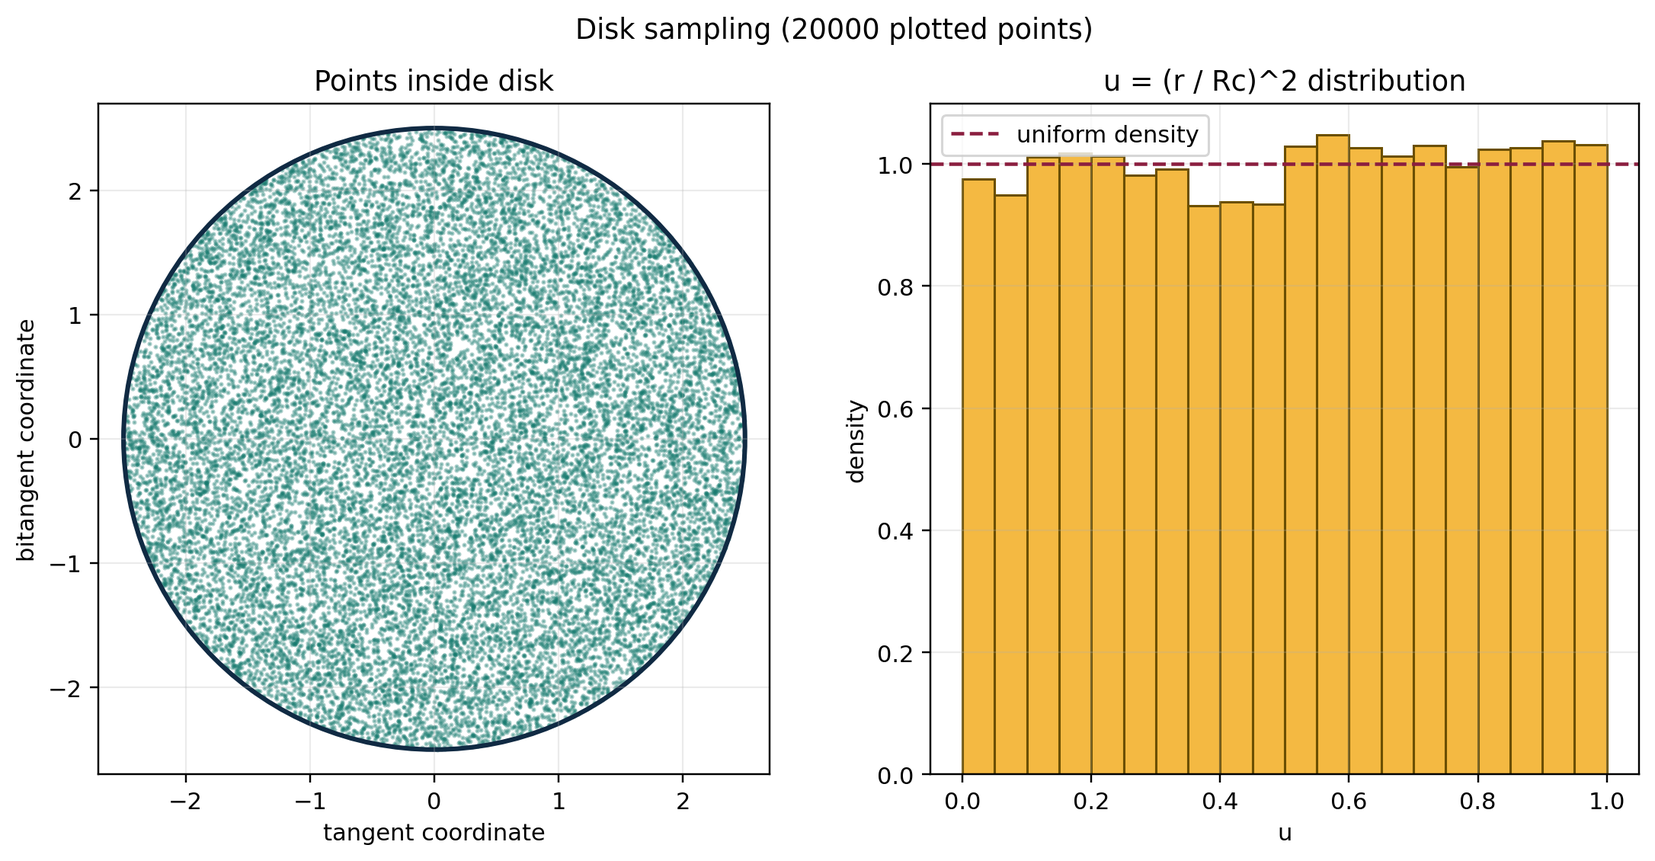
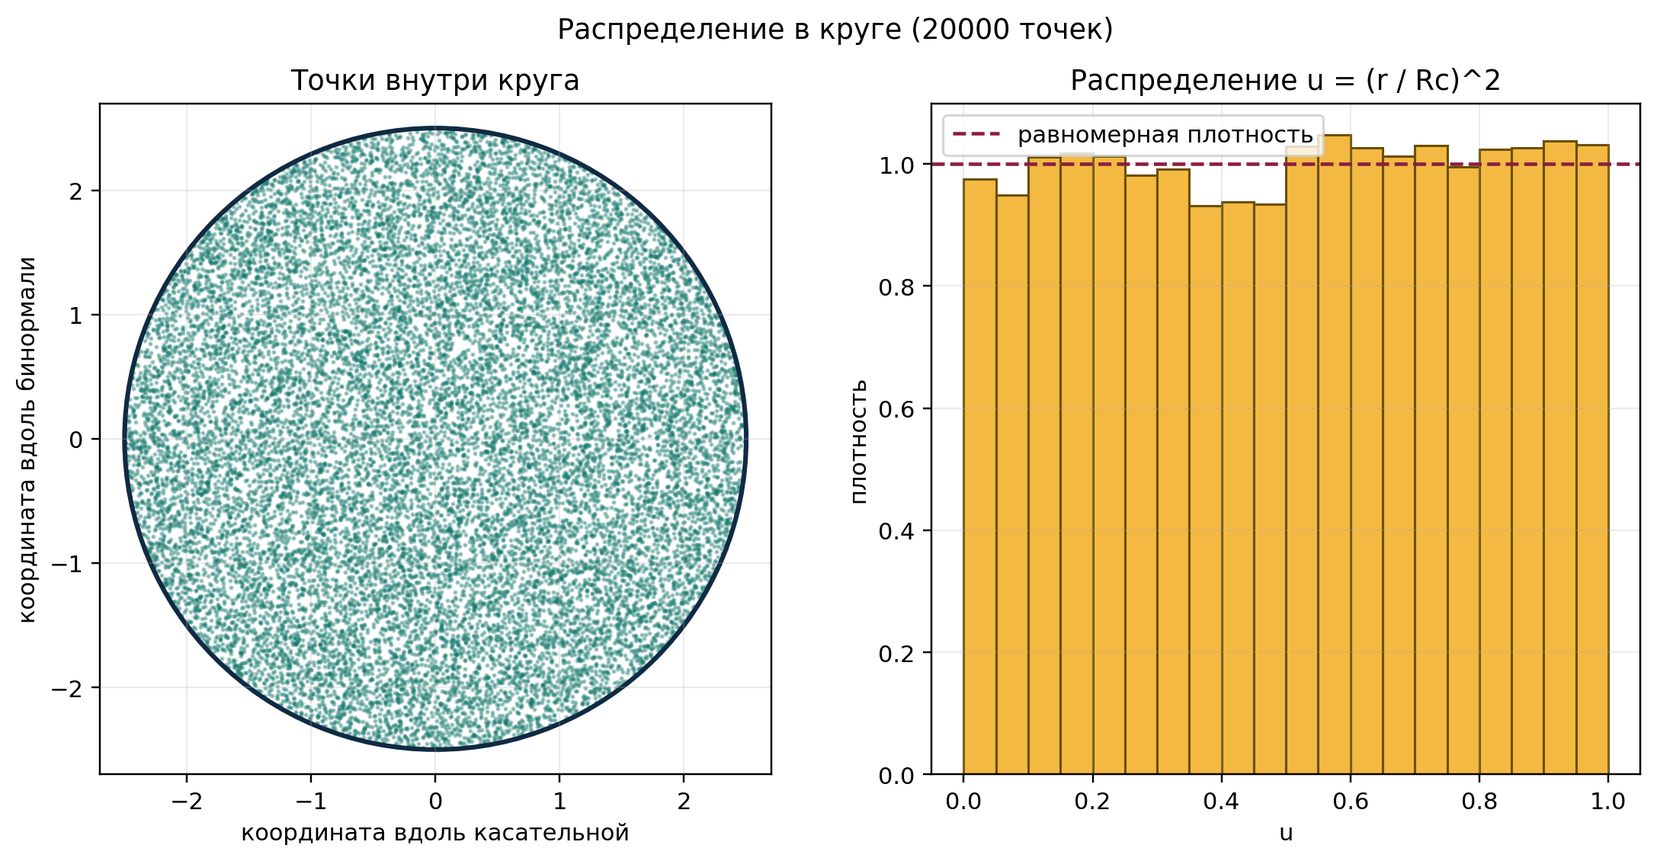
Translate lab 03 output to Russian

diff --git a/03/main.py b/03/main.py
@@ -51,7 +51,7 @@ class Vec3:
     def normalize(self) -> "Vec3":
         length = self.length()
         if length < EPSILON:
-            raise ValueError("Zero-length vector cannot be normalized.")
+            raise ValueError("Нельзя нормализовать нулевой вектор.")
         return self * (1.0 / length)
 
 
@@ -106,7 +106,7 @@ def build_count_table(bin_name: str, counts: list[int], expected: float) -> str:
             ]
         )
     return format_table(
-        [bin_name, "count", "expected", "diff", "diff %"],
+        [bin_name, "число", "ожид.", "разн.", "разн. %"],
         rows,
     )
 
@@ -186,7 +186,7 @@ def phi_bin_index(phi: float, bins: int) -> int:
 
 
 def build_metrics_table(rows: list[tuple[str, str]]) -> str:
-    return format_table(["metric", "value"], [[name, value] for name, value in rows], alignments="lr")
+    return format_table(["метрика", "значение"], [[name, value] for name, value in rows], alignments="lr")
 
 
 def triangle_parameters() -> tuple[Vec3, Vec3, Vec3]:
@@ -278,22 +278,22 @@ def create_triangle_plot() -> Path:
     for index, vertex in enumerate(vertices_uv, start=1):
         scatter_ax.scatter([vertex[0]], [vertex[1]], s=45, color="#d64545", zorder=3)
         scatter_ax.text(vertex[0], vertex[1], f"  V{index}", fontsize=10, va="bottom")
-    scatter_ax.set_title("Points inside triangle")
-    scatter_ax.set_xlabel("local u")
-    scatter_ax.set_ylabel("local v")
+    scatter_ax.set_title("Точки внутри треугольника")
+    scatter_ax.set_xlabel("локальная координата u")
+    scatter_ax.set_ylabel("локальная координата v")
     scatter_ax.set_aspect("equal", adjustable="box")
     style_axes(scatter_ax)
 
     expected = PLOT_SAMPLE_COUNT / 4.0
-    labels = ["R1", "R2", "R3", "R4"]
+    labels = ["О1", "О2", "О3", "О4"]
     bar_ax.bar(labels, region_counts, color="#4f9d69")
-    bar_ax.axhline(expected, color="#8b1e3f", linestyle="--", linewidth=1.5, label=f"expected = {expected:.0f}")
-    bar_ax.set_title("Equal-area subtriangles")
-    bar_ax.set_ylabel("count")
+    bar_ax.axhline(expected, color="#8b1e3f", linestyle="--", linewidth=1.5, label=f"ожид. = {expected:.0f}")
+    bar_ax.set_title("Равновеликие подтреугольники")
+    bar_ax.set_ylabel("число точек")
     bar_ax.legend()
     style_axes(bar_ax)
 
-    fig.suptitle(f"Triangle sampling ({PLOT_SAMPLE_COUNT} plotted points)")
+    fig.suptitle(f"Распределение в треугольнике ({PLOT_SAMPLE_COUNT} точек)")
     return save_figure(fig, "triangle_distribution.png")
 
 
@@ -320,23 +320,23 @@ def create_disk_plot() -> Path:
     scatter_ax.scatter(xs, ys, s=1, alpha=0.35, color="#157a6e", rasterized=True)
     circle = plt.Circle((0.0, 0.0), radius, fill=False, linewidth=2.0, color="#102a43")
     scatter_ax.add_patch(circle)
-    scatter_ax.set_title("Points inside disk")
-    scatter_ax.set_xlabel("tangent coordinate")
-    scatter_ax.set_ylabel("bitangent coordinate")
+    scatter_ax.set_title("Точки внутри круга")
+    scatter_ax.set_xlabel("координата вдоль касательной")
+    scatter_ax.set_ylabel("координата вдоль бинормали")
     scatter_ax.set_aspect("equal", adjustable="box")
     scatter_ax.set_xlim(-radius * 1.08, radius * 1.08)
     scatter_ax.set_ylim(-radius * 1.08, radius * 1.08)
     style_axes(scatter_ax)
 
     hist_ax.hist(area_values, bins=20, range=(0.0, 1.0), density=True, color="#f4b942", edgecolor="#6b4f00")
-    hist_ax.axhline(1.0, color="#8b1e3f", linestyle="--", linewidth=1.5, label="uniform density")
-    hist_ax.set_title("u = (r / Rc)^2 distribution")
+    hist_ax.axhline(1.0, color="#8b1e3f", linestyle="--", linewidth=1.5, label="равномерная плотность")
+    hist_ax.set_title("Распределение u = (r / Rc)^2")
     hist_ax.set_xlabel("u")
-    hist_ax.set_ylabel("density")
+    hist_ax.set_ylabel("плотность")
     hist_ax.legend()
     style_axes(hist_ax)
 
-    fig.suptitle(f"Disk sampling ({PLOT_SAMPLE_COUNT} plotted points)")
+    fig.suptitle(f"Распределение в круге ({PLOT_SAMPLE_COUNT} точек)")
     return save_figure(fig, "disk_distribution.png")
 
 
@@ -364,17 +364,17 @@ def create_uniform_sphere_plot() -> Path:
         alpha=0.45,
         rasterized=True,
     )
-    configure_3d_axes(scatter_ax, "Uniform directions on sphere")
+    configure_3d_axes(scatter_ax, "Равномерные направления на сфере")
 
     hist_ax.hist(z_values, bins=24, range=(-1.0, 1.0), density=True, color="#3b82b0", edgecolor="#16324f")
-    hist_ax.axhline(0.5, color="#8b1e3f", linestyle="--", linewidth=1.5, label="theory: p(z)=1/2")
-    hist_ax.set_title("Distribution of z = cos(theta)")
+    hist_ax.axhline(0.5, color="#8b1e3f", linestyle="--", linewidth=1.5, label="теория: p(z)=1/2")
+    hist_ax.set_title("Распределение z = cos(theta)")
     hist_ax.set_xlabel("z")
-    hist_ax.set_ylabel("density")
+    hist_ax.set_ylabel("плотность")
     hist_ax.legend()
     style_axes(hist_ax)
 
-    fig.suptitle(f"Uniform sphere sampling ({PLOT_SAMPLE_COUNT} plotted directions)")
+    fig.suptitle(f"Равномерное распределение на сфере ({PLOT_SAMPLE_COUNT} направлений)")
     return save_figure(fig, "uniform_sphere_distribution.png")
 
 
@@ -405,19 +405,19 @@ def create_cosine_plot() -> Path:
         rasterized=True,
     )
     scatter_ax.quiver(0.0, 0.0, 0.0, normal.x, normal.y, normal.z, length=1.1, color="#111111", linewidth=2.0)
-    configure_3d_axes(scatter_ax, "Cosine-weighted hemisphere")
+    configure_3d_axes(scatter_ax, "Косинусное распределение на полусфере")
     scatter_ax.set_zlim(0.0, 1.05)
 
     hist_ax.hist(cosines, bins=24, range=(0.0, 1.0), density=True, color="#f08c2e", edgecolor="#6b3a00")
     xs = [index / 200.0 for index in range(201)]
-    hist_ax.plot(xs, [2.0 * x for x in xs], color="#8b1e3f", linewidth=2.0, label="theory: p(mu)=2mu")
-    hist_ax.set_title("Distribution of mu = cos(theta)")
+    hist_ax.plot(xs, [2.0 * x for x in xs], color="#8b1e3f", linewidth=2.0, label="теория: p(mu)=2mu")
+    hist_ax.set_title("Распределение mu = cos(theta)")
     hist_ax.set_xlabel("mu")
-    hist_ax.set_ylabel("density")
+    hist_ax.set_ylabel("плотность")
     hist_ax.legend()
     style_axes(hist_ax)
 
-    fig.suptitle(f"Cosine hemisphere sampling ({PLOT_SAMPLE_COUNT} plotted directions)")
+    fig.suptitle(f"Косинусное распределение на полусфере ({PLOT_SAMPLE_COUNT} направлений)")
     return save_figure(fig, "cosine_distribution.png")
 
 
@@ -467,28 +467,28 @@ def analyze_triangle() -> str:
     expected_subtriangle = SAMPLE_COUNT / 4.0
 
     lines = [
-        "1. Uniform points inside triangle",
+        "1. Равномерное распределение точек внутри треугольника",
         f"V1 = {format_vec(v1)}, V2 = {format_vec(v2)}, V3 = {format_vec(v3)}",
-        "sampling map: u1,u2 ~ U[0,1], s = sqrt(u1),",
+        "формирование: u1,u2 ~ U[0,1], s = sqrt(u1),",
         "b1 = 1 - s, b2 = s(1-u2), b3 = s*u2, P = b1*V1 + b2*V2 + b3*V3",
-        "proof idea: b1,b2,b3 >= 0 and b1+b2+b3 = 1 => every point lies inside the triangle; the Jacobian is constant over area.",
+        "идея доказательства: b1,b2,b3 >= 0 и b1+b2+b3 = 1, значит все точки лежат внутри треугольника; якобиан преобразования постоянен по площади.",
         build_metrics_table(
             [
-                ("generated points", str(SAMPLE_COUNT)),
-                ("invalid points", str(invalid_count)),
-                ("inside check passed", "yes" if invalid_count == 0 else "no"),
+                ("число сгенерированных точек", str(SAMPLE_COUNT)),
+                ("число неверных точек", str(invalid_count)),
+                ("проверка принадлежности", "пройдена" if invalid_count == 0 else "не пройдена"),
                 ("max |b1+b2+b3-1|", f"{max_bary_sum_error:.12f}"),
-                ("mean barycentric", f"({sum_b1 / SAMPLE_COUNT:.6f}, {sum_b2 / SAMPLE_COUNT:.6f}, {sum_b3 / SAMPLE_COUNT:.6f})"),
-                ("theoretical centroid", format_vec(centroid)),
-                ("sample centroid", format_vec(sample_centroid)),
-                ("centroid error", f"{centroid_error:.6f}"),
-                ("subtriangle chi^2", f"{chi_square_stat(region_counts, expected_subtriangle):.6f}"),
-                ("subtriangle max diff %", f"{max_relative_deviation_percent(region_counts, expected_subtriangle):.3f}%"),
-                ("subtriangle rms diff %", f"{rms_relative_deviation_percent(region_counts, expected_subtriangle):.3f}%"),
+                ("средние барицентрические", f"({sum_b1 / SAMPLE_COUNT:.6f}, {sum_b2 / SAMPLE_COUNT:.6f}, {sum_b3 / SAMPLE_COUNT:.6f})"),
+                ("теоретический центр масс", format_vec(centroid)),
+                ("выборочный центр масс", format_vec(sample_centroid)),
+                ("ошибка центра масс", f"{centroid_error:.6f}"),
+                ("chi^2 по подтреугольникам", f"{chi_square_stat(region_counts, expected_subtriangle):.6f}"),
+                ("макс. отклонение", f"{max_relative_deviation_percent(region_counts, expected_subtriangle):.3f}%"),
+                ("с.к.о. отклонение", f"{rms_relative_deviation_percent(region_counts, expected_subtriangle):.3f}%"),
             ]
         ),
-        "Equal-area subtriangles: expected count = N / 4",
-        build_count_table("subtriangle", region_counts, expected_subtriangle),
+        "Равновеликие подтреугольники: ожидаемое число = N / 4",
+        build_count_table("подтр.", region_counts, expected_subtriangle),
         "",
     ]
     return "\n".join(lines)
@@ -533,31 +533,31 @@ def analyze_disk() -> str:
     expected_sector = SAMPLE_COUNT / len(sector_counts)
 
     lines = [
-        "2. Uniform points inside disk",
+        "2. Равномерное распределение точек внутри круга",
         f"C = {format_vec(center)}, N = {format_vec(n)}, Rc = {radius:.6f}",
-        "sampling map: u1,u2 ~ U[0,1], r = Rc*sqrt(u1), phi = 2*pi*u2,",
-        "P = C + T*(r*cos(phi)) + B*(r*sin(phi)) in an orthonormal basis (T,B,N)",
-        "proof idea: u1 = r^2 / Rc^2 is uniform, so equal-area rings must contain the same number of samples.",
+        "формирование: u1,u2 ~ U[0,1], r = Rc*sqrt(u1), phi = 2*pi*u2,",
+        "P = C + T*(r*cos(phi)) + B*(r*sin(phi)) в ортонормированном базисе (T,B,N)",
+        "идея доказательства: u1 = r^2 / Rc^2 распределена равномерно, поэтому равновеликие кольца должны содержать одинаковое число точек.",
         build_metrics_table(
             [
-                ("generated points", str(SAMPLE_COUNT)),
-                ("invalid points", str(invalid_count)),
-                ("inside check passed", "yes" if invalid_count == 0 else "no"),
-                ("max plane distance", f"{max_plane_distance:.12f}"),
-                ("max radius / Rc", f"{max_radius_ratio:.6f}"),
-                ("theoretical centroid", format_vec(center)),
-                ("sample centroid", format_vec(sample_centroid)),
-                ("centroid error", f"{centroid_error:.6f}"),
-                ("ring chi^2", f"{chi_square_stat(ring_counts, expected_ring):.6f}"),
-                ("ring max diff %", f"{max_relative_deviation_percent(ring_counts, expected_ring):.3f}%"),
-                ("sector chi^2", f"{chi_square_stat(sector_counts, expected_sector):.6f}"),
-                ("sector max diff %", f"{max_relative_deviation_percent(sector_counts, expected_sector):.3f}%"),
+                ("число сгенерированных точек", str(SAMPLE_COUNT)),
+                ("число неверных точек", str(invalid_count)),
+                ("проверка принадлежности", "пройдена" if invalid_count == 0 else "не пройдена"),
+                ("макс. расстояние до плоскости", f"{max_plane_distance:.12f}"),
+                ("макс. r / Rc", f"{max_radius_ratio:.6f}"),
+                ("теоретический центр масс", format_vec(center)),
+                ("выборочный центр масс", format_vec(sample_centroid)),
+                ("ошибка центра масс", f"{centroid_error:.6f}"),
+                ("chi^2 по кольцам", f"{chi_square_stat(ring_counts, expected_ring):.6f}"),
+                ("макс. отклонение по кольцам", f"{max_relative_deviation_percent(ring_counts, expected_ring):.3f}%"),
+                ("chi^2 по секторам", f"{chi_square_stat(sector_counts, expected_sector):.6f}"),
+                ("макс. отклонение по секторам", f"{max_relative_deviation_percent(sector_counts, expected_sector):.3f}%"),
             ]
         ),
-        "Equal-area rings: expected count = N / 5",
-        build_count_table("ring", ring_counts, expected_ring),
-        "Azimuth sectors: expected count = N / 8",
-        build_count_table("sector", sector_counts, expected_sector),
+        "Равновеликие кольца: ожидаемое число = N / 5",
+        build_count_table("кольцо", ring_counts, expected_ring),
+        "Азимутальные секторы: ожидаемое число = N / 8",
+        build_count_table("сектор", sector_counts, expected_sector),
         "",
     ]
     return "\n".join(lines)
@@ -590,28 +590,28 @@ def analyze_uniform_sphere() -> str:
     expected_sector = SAMPLE_COUNT / len(sector_counts)
 
     lines = [
-        "3. Uniform directions on unit sphere",
-        "sampling map: u1,u2 ~ U[0,1], z = 1 - 2*u1, phi = 2*pi*u2,",
+        "3. Равномерное распределение направлений на единичной сфере",
+        "формирование: u1,u2 ~ U[0,1], z = 1 - 2*u1, phi = 2*pi*u2,",
         "w = (sqrt(1-z^2)*cos(phi), sqrt(1-z^2)*sin(phi), z)",
-        "proof idea: z = cos(theta) is uniform on [-1,1] and phi is uniform on [0,2*pi), which gives constant density over solid angle.",
+        "идея доказательства: z = cos(theta) равномерна на [-1,1], а phi равномерна на [0,2*pi), что даёт постоянную плотность по телесному углу.",
         build_metrics_table(
             [
-                ("generated directions", str(SAMPLE_COUNT)),
-                ("invalid directions", str(invalid_count)),
-                ("all normalized", "yes" if invalid_count == 0 else "no"),
+                ("число сгенерированных направлений", str(SAMPLE_COUNT)),
+                ("число неверных направлений", str(invalid_count)),
+                ("проверка нормировки", "пройдена" if invalid_count == 0 else "не пройдена"),
                 ("max ||w|-1|", f"{max_norm_error:.12f}"),
-                ("sample mean direction", format_vec(mean_dir)),
-                ("|mean direction|", f"{mean_dir.length():.6f}"),
-                ("z-bin chi^2", f"{chi_square_stat(z_counts, expected_z):.6f}"),
-                ("z-bin max diff %", f"{max_relative_deviation_percent(z_counts, expected_z):.3f}%"),
-                ("sector chi^2", f"{chi_square_stat(sector_counts, expected_sector):.6f}"),
-                ("sector max diff %", f"{max_relative_deviation_percent(sector_counts, expected_sector):.3f}%"),
+                ("среднее направление выборки", format_vec(mean_dir)),
+                ("|среднее направление|", f"{mean_dir.length():.6f}"),
+                ("chi^2 по z-интервалам", f"{chi_square_stat(z_counts, expected_z):.6f}"),
+                ("макс. отклонение по z", f"{max_relative_deviation_percent(z_counts, expected_z):.3f}%"),
+                ("chi^2 по секторам", f"{chi_square_stat(sector_counts, expected_sector):.6f}"),
+                ("макс. отклонение по секторам", f"{max_relative_deviation_percent(sector_counts, expected_sector):.3f}%"),
             ]
         ),
-        "z = cos(theta) bins on [-1, 1]: expected count = N / 10",
-        build_count_table("z-bin", z_counts, expected_z),
-        "Azimuth sectors: expected count = N / 8",
-        build_count_table("sector", sector_counts, expected_sector),
+        "Интервалы z = cos(theta) на [-1, 1]: ожидаемое число = N / 10",
+        build_count_table("z-инт.", z_counts, expected_z),
+        "Азимутальные секторы: ожидаемое число = N / 8",
+        build_count_table("сектор", sector_counts, expected_sector),
         "",
     ]
     return "\n".join(lines)
@@ -650,30 +650,30 @@ def analyze_cosine_directions() -> str:
     expected_sector = SAMPLE_COUNT / len(sector_counts)
 
     lines = [
-        "4. Cosine-weighted directions around N",
+        "4. Косинусное распределение направлений относительно N",
         f"N = {format_vec(normal)}",
-        "sampling map: sample the unit disk x = sqrt(u1)*cos(phi), y = sqrt(u1)*sin(phi),",
+        "формирование: сначала выбирается точка единичного круга x = sqrt(u1)*cos(phi), y = sqrt(u1)*sin(phi),",
         "z = sqrt(1-u1), w = T*x + B*y + N*z",
-        "proof idea: this produces pdf(w) = cos(theta)/pi on the hemisphere; equivalently, u = cos^2(theta) is uniform and phi is uniform.",
+        "идея доказательства: получается плотность pdf(w) = cos(theta)/pi на полусфере; эквивалентно, u = cos^2(theta) распределена равномерно, а phi равномерна.",
         build_metrics_table(
             [
-                ("generated directions", str(SAMPLE_COUNT)),
-                ("invalid directions", str(invalid_count)),
-                ("hemisphere check passed", "yes" if invalid_count == 0 else "no"),
+                ("число сгенерированных направлений", str(SAMPLE_COUNT)),
+                ("число неверных направлений", str(invalid_count)),
+                ("проверка полусферы", "пройдена" if invalid_count == 0 else "не пройдена"),
                 ("max ||w|-1|", f"{max_norm_error:.12f}"),
                 ("min dot(N, w)", f"{min_cosine:.6f}"),
-                ("sample mean cos(theta)", f"{mean_cosine:.6f}"),
-                ("theoretical mean cos(theta)", f"{2.0 / 3.0:.6f}"),
-                ("u-bin chi^2", f"{chi_square_stat(u_counts, expected_u):.6f}"),
-                ("u-bin max diff %", f"{max_relative_deviation_percent(u_counts, expected_u):.3f}%"),
-                ("sector chi^2", f"{chi_square_stat(sector_counts, expected_sector):.6f}"),
-                ("sector max diff %", f"{max_relative_deviation_percent(sector_counts, expected_sector):.3f}%"),
+                ("выборочное среднее cos(theta)", f"{mean_cosine:.6f}"),
+                ("теоретическое среднее cos(theta)", f"{2.0 / 3.0:.6f}"),
+                ("chi^2 по u-интервалам", f"{chi_square_stat(u_counts, expected_u):.6f}"),
+                ("макс. отклонение по u", f"{max_relative_deviation_percent(u_counts, expected_u):.3f}%"),
+                ("chi^2 по секторам", f"{chi_square_stat(sector_counts, expected_sector):.6f}"),
+                ("макс. отклонение по секторам", f"{max_relative_deviation_percent(sector_counts, expected_sector):.3f}%"),
             ]
         ),
-        "u = cos^2(theta) bins: expected count = N / 10",
-        build_count_table("u-bin", u_counts, expected_u),
-        "Azimuth sectors: expected count = N / 8",
-        build_count_table("sector", sector_counts, expected_sector),
+        "Интервалы u = cos^2(theta): ожидаемое число = N / 10",
+        build_count_table("u-инт.", u_counts, expected_u),
+        "Азимутальные секторы: ожидаемое число = N / 8",
+        build_count_table("сектор", sector_counts, expected_sector),
         "",
     ]
     return "\n".join(lines)
@@ -681,8 +681,8 @@ def analyze_cosine_directions() -> str:
 
 def build_report() -> str:
     sections = [
-        f"samples per task = {SAMPLE_COUNT}, base seed = {BASE_SEED}",
-        "validation = analytic sampling formulas + geometric constraints + equal-probability bin counts + chi^2 summary",
+        f"число выборок в каждом пункте = {SAMPLE_COUNT}, базовое зерно = {BASE_SEED}",
+        "проверка = аналитические формулы + геометрические ограничения + равновероятные интервалы + статистика chi^2",
         "",
         analyze_triangle(),
         analyze_disk(),
@@ -695,7 +695,7 @@ def build_report() -> str:
 def main() -> None:
     print(build_report())
     saved_plots = create_all_plots()
-    print("saved figures:")
+    print("сохранённые рисунки:")
     for path in saved_plots:
         print(f"- {path.name}")
 
